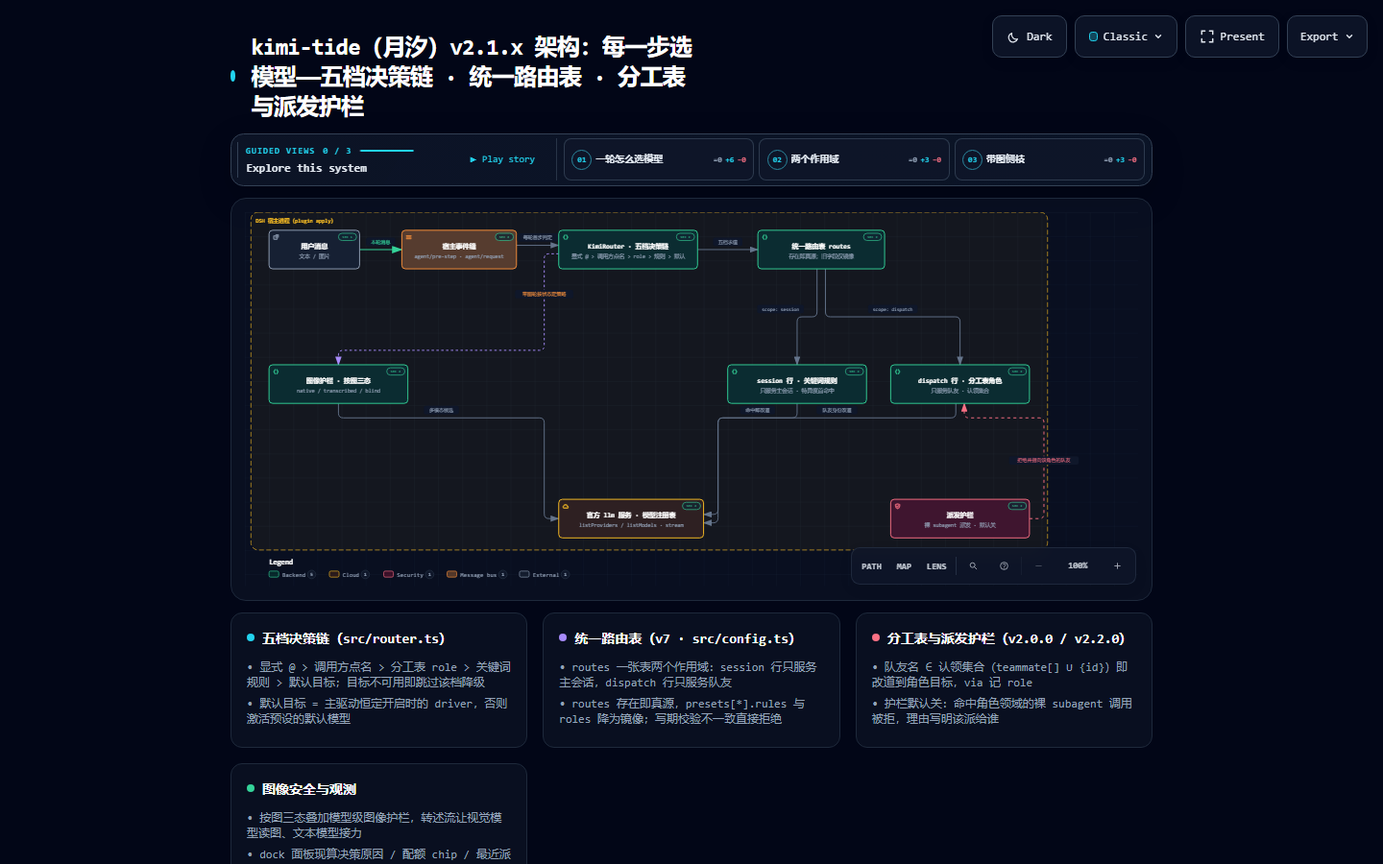
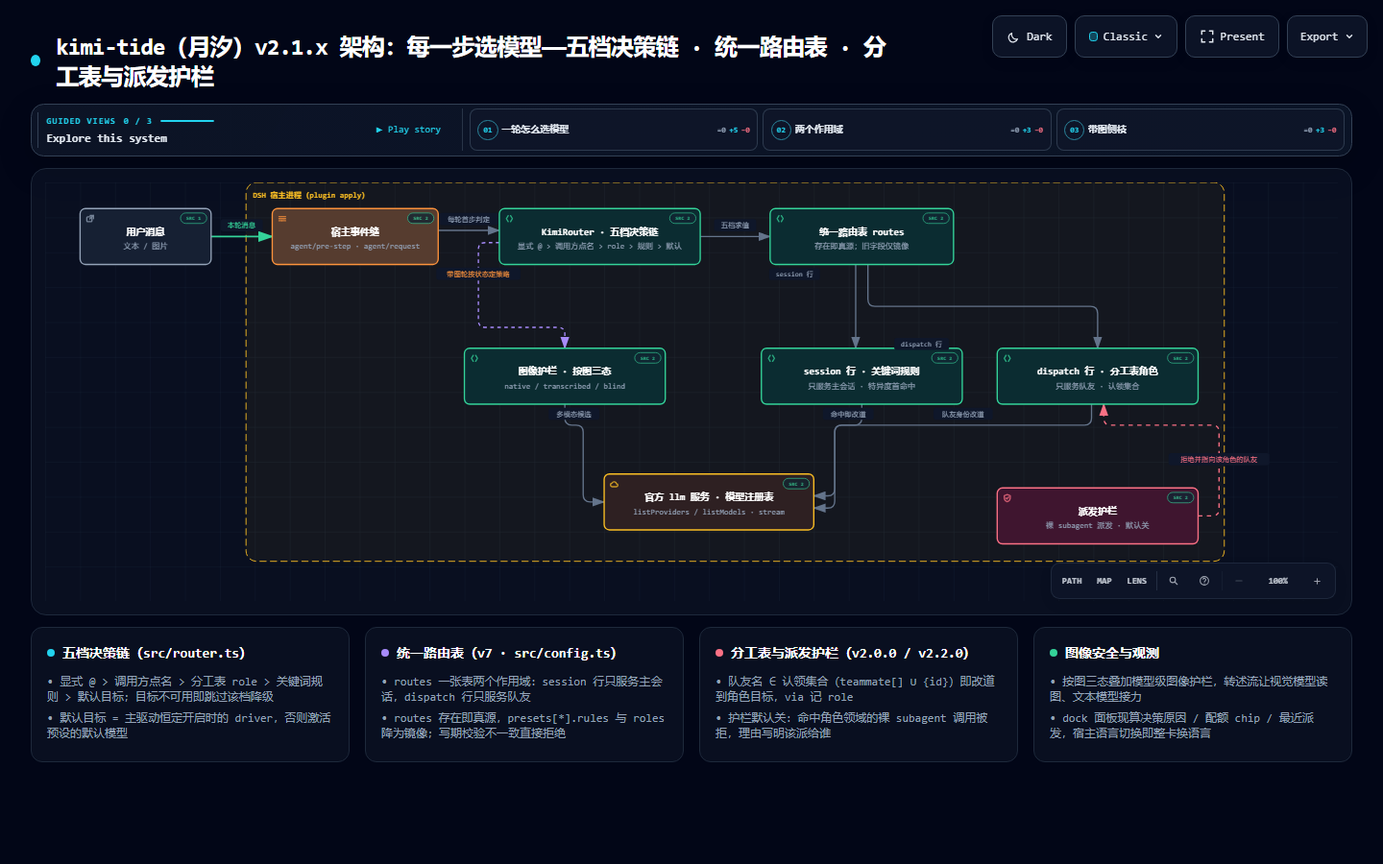
docs(assets): 架构图重制收口——v2.1.x 形态 ＋ 布局紧凑化 ＋ 双语图注同步
用户反馈「布局排版有问题」后的收口轮结果（信息量零变化：9 组件 / 1 边界 / 10 连接 / 4 卡片 / 3 章故事 / 标题文字全保留）。

内容换代（前一轮）：1.0.0 的「协作编排——转述流 · 按图三态 · 智能投影」→
「每一步选模型——五档决策链 · 统一路由表 · 分工表与派发护栏」；新节点含宿主事件缝
（agent/pre-step · agent/request）、KimiRouter·五档决策链、统一路由表 routes（存在即真源、
旧字段仅镜像）、session 行·关键词规则、dispatch 行·分工表角色、图像护栏·按图三态、
派发护栏（裸 subagent 派发·默认关）、官方 llm 服务·模型注册表。

布局收口（本轮，只改 2 个 pos）：
- image  [40,253]  → [480,190]：从跨图长侧枝改为 router 正下方的短侧枝
- models [520,476] → [640,334]：汇聚点上移左收，贴近三条入边
- 实测：总连线长度 2807 → 1957px（−30%）· 最长单边 559 → 415px（−26%）·
  maxStretch 1.203 → 1.245（限值 1.35）· 顺手修掉一个阈值外的隐藏缺陷
  （router→image 的 stretch 3.038× → 1.203×，此前不在 suggestedLimits 里所以 validate 不报）
- routesOverSuggestedBends 仍 5 / maxBends 仍 3：以 70+ 候选位置批量实测证明这是渲染器
  端口几何的下界（同侧 ≥2 条自动端口 ±7px spread ⇒ bottom→top 直落必然带固定折弯），
  按技能「两轮无改善即停」收手，未靠堆 via/channel 硬压指标

验收（Lead 亲跑复验，不采信子代理自述）：
- validate --quality showcase --repo-root . ⇒ ok:true / status pass / errors 0 / warnings 0（9/9 checks）
- visual-check 四档（1440x900 / 1600x1000 / 1920x1080 / 2048x1320）ok=true、overflowX/Y=false
- README 静态图 architecture-overview.png = 本轮 2048x1320 light 截图裁掉底部 329px 空白后
  （2048x1019，留 28px 余量）：白边在 GitHub 上按宽度缩放会占近四成高度，故裁；这是有意的
  派生差异，visual-check 原始截图仍完整留在仓内
- 双语图注（README.md / README.en.md 第 123 行 alt）同步为新标题；五闸全绿

过程登记：本轮与前一轮曾并发写同一 JSON（Lead 误判前一子代理已收工即派下一轮），
后一子代理发现 edit 被拒后保留兄弟改动并合并验收，零丢失。

diff --git a/docs/assets/readme/kimi-tide-architecture.html b/docs/assets/readme/kimi-tide-architecture.html
@@ -4840,7 +4840,7 @@
       </div>
     </div>
 
-    <script id="archify-guided-views-data" type="application/json">[{"id":"live-turn","label":"一轮怎么选模型","focus":["user","event","router","tiers","session","models"],"note":"消息进来 → 事件缝每轮首步判定一次 → 五档决策链 → 统一路由表 → 官方 llm 服务。"},{"id":"two-scopes","label":"两个作用域","focus":["session","dispatch","guard"],"note":"同一张 routes 表：session 行只服务主会话，dispatch 行只服务队友；护栏拦主会话的裸子代理派发。"},{"id":"image-branch","label":"带图侧枝","focus":["image","router","models"],"note":"按图三态 native / transcribed / blind，保证带图轮一定落在能看图的模型上。"}]</script>
+    <script id="archify-guided-views-data" type="application/json">[{"id":"live-turn","label":"一轮怎么选模型","focus":["user","event","router","session","models"],"note":"消息进来 → 事件缝每轮首步判定一次 → 五档决策链 → 命中 session 行 → 官方 llm 服务。"},{"id":"two-scopes","label":"两个作用域","focus":["session","dispatch","guard"],"note":"同一张 routes 表：session 行只服务主会话，dispatch 行只服务队友；护栏拦主会话的裸子代理派发。"},{"id":"image-branch","label":"带图侧枝","focus":["image","router","models"],"note":"按图三态 native / transcribed / blind，保证带图轮一定落在能看图的模型上。"}]</script>
     <script id="archify-source-evidence-data" type="application/json">{"schemaVersion":1,"verified":true,"repository":{"url":"https://github.com/tafcear/kimi-tide","revision":"efeff8721b5aacee522c14be27596ce68977f4e8","shortRevision":"efeff87"},"referenceCount":17,"nodes":{"user":[{"path":"packages/dsh-kimi-tide/src/rules.ts","line":105,"label":"latestUserMessage","href":"https://github.com/tafcear/kimi-tide/blob/efeff8721b5aacee522c14be27596ce68977f4e8/packages/dsh-kimi-tide/src/rules.ts#L105"}],"event":[{"path":"packages/dsh-kimi-tide/src/router.ts","line":839,"label":"installRouter","href":"https://github.com/tafcear/kimi-tide/blob/efeff8721b5aacee522c14be27596ce68977f4e8/packages/dsh-kimi-tide/src/router.ts#L839"},{"path":"packages/dsh-kimi-tide/src/index.ts","line":440,"label":"apply","href":"https://github.com/tafcear/kimi-tide/blob/efeff8721b5aacee522c14be27596ce68977f4e8/packages/dsh-kimi-tide/src/index.ts#L440"}],"router":[{"path":"packages/dsh-kimi-tide/src/router.ts","line":346,"label":"decide 五档","href":"https://github.com/tafcear/kimi-tide/blob/efeff8721b5aacee522c14be27596ce68977f4e8/packages/dsh-kimi-tide/src/router.ts#L346"},{"path":"packages/dsh-kimi-tide/src/router.ts","line":122,"label":"applyRoleDecision","href":"https://github.com/tafcear/kimi-tide/blob/efeff8721b5aacee522c14be27596ce68977f4e8/packages/dsh-kimi-tide/src/router.ts#L122"}],"tiers":[{"path":"packages/dsh-kimi-tide/src/config.ts","line":179,"label":"RouterConfigV7","href":"https://github.com/tafcear/kimi-tide/blob/efeff8721b5aacee522c14be27596ce68977f4e8/packages/dsh-kimi-tide/src/config.ts#L179"},{"path":"packages/dsh-kimi-tide/src/config.ts","line":227,"label":"rowsFromConfig","href":"https://github.com/tafcear/kimi-tide/blob/efeff8721b5aacee522c14be27596ce68977f4e8/packages/dsh-kimi-tide/src/config.ts#L227"}],"image":[{"path":"packages/dsh-kimi-tide/src/image-state.ts","line":18,"label":"ImageStateStore","href":"https://github.com/tafcear/kimi-tide/blob/efeff8721b5aacee522c14be27596ce68977f4e8/packages/dsh-kimi-tide/src/image-state.ts#L18"},{"path":"packages/dsh-kimi-tide/src/router.ts","line":178,"label":"resolveImageFallback","href":"https://github.com/tafcear/kimi-tide/blob/efeff8721b5aacee522c14be27596ce68977f4e8/packages/dsh-kimi-tide/src/router.ts#L178"}],"session":[{"path":"packages/dsh-kimi-tide/src/rules.ts","line":185,"label":"matchingScored","href":"https://github.com/tafcear/kimi-tide/blob/efeff8721b5aacee522c14be27596ce68977f4e8/packages/dsh-kimi-tide/src/rules.ts#L185"},{"path":"packages/dsh-kimi-tide/src/config.ts","line":157,"label":"RouteRowV7","href":"https://github.com/tafcear/kimi-tide/blob/efeff8721b5aacee522c14be27596ce68977f4e8/packages/dsh-kimi-tide/src/config.ts#L157"}],"dispatch":[{"path":"packages/dsh-kimi-tide/src/roles.ts","line":25,"label":"roleClaimSet","href":"https://github.com/tafcear/kimi-tide/blob/efeff8721b5aacee522c14be27596ce68977f4e8/packages/dsh-kimi-tide/src/roles.ts#L25"},{"path":"packages/dsh-kimi-tide/src/roles.ts","line":32,"label":"claimConflict","href":"https://github.com/tafcear/kimi-tide/blob/efeff8721b5aacee522c14be27596ce68977f4e8/packages/dsh-kimi-tide/src/roles.ts#L32"}],"guard":[{"path":"packages/dsh-kimi-tide/src/guard.ts","line":124,"label":"dispatchGuardRejection","href":"https://github.com/tafcear/kimi-tide/blob/efeff8721b5aacee522c14be27596ce68977f4e8/packages/dsh-kimi-tide/src/guard.ts#L124"},{"path":"packages/dsh-kimi-tide/src/index.ts","line":766,"label":"ctx.tools.guard","href":"https://github.com/tafcear/kimi-tide/blob/efeff8721b5aacee522c14be27596ce68977f4e8/packages/dsh-kimi-tide/src/index.ts#L766"}],"models":[{"path":"packages/dsh-kimi-tide/src/index.ts","line":1111,"label":"refreshModelOptions","href":"https://github.com/tafcear/kimi-tide/blob/efeff8721b5aacee522c14be27596ce68977f4e8/packages/dsh-kimi-tide/src/index.ts#L1111"},{"path":"packages/dsh-kimi-tide/src/router.ts","line":483,"label":"applyTo 替换 callConfig","href":"https://github.com/tafcear/kimi-tide/blob/efeff8721b5aacee522c14be27596ce68977f4e8/packages/dsh-kimi-tide/src/router.ts#L483"}]}}</script>
     <div class="guided-views no-print" id="guided-views" hidden aria-label="Guided diagram views">
       <button id="guided-view-prev" type="button" aria-label="Previous guided view" title="Previous guided view ([)">&#8592;</button>
@@ -4883,7 +4883,7 @@
 
     <!-- Main Diagram -->
     <div class="diagram-container" data-detail-level="read">
-      <svg viewBox="0 0 1480 620" role="img" aria-labelledby="archify-diagram-title archify-diagram-description" data-preset="classic" data-quality-profile="showcase">
+      <svg viewBox="0 0 1480 480" role="img" aria-labelledby="archify-diagram-title archify-diagram-description" data-preset="classic" data-quality-profile="showcase">
         <title id="archify-diagram-title">kimi-tide（月汐）v2.1.x 架构：每一步选模型——五档决策链 · 统一路由表 · 分工表与派发护栏</title>
         <desc id="archify-diagram-description">A architecture diagram generated by Archify.</desc>
         <!-- Definitions -->
@@ -4909,20 +4909,20 @@
         <rect width="100%" height="100%" fill="url(#grid)" />
 
         <!-- Boundaries (behind everything) -->
-        <rect data-graph-role="structural-frame" data-composition-frame-kind="region" data-composition-frame-id="0" x="10" y="0" width="1320" height="560" rx="12" class="c-region" stroke-width="1"/>
-        <text x="18" y="18" class="t-cloud" font-size="9" font-weight="600">DSH 宿主进程（plugin apply）</text>
+        <rect data-graph-role="structural-frame" data-composition-frame-kind="region" data-composition-frame-id="0" x="230" y="0" width="1120" height="434" rx="12" class="c-region" stroke-width="1"/>
+        <text x="238" y="18" class="t-cloud" font-size="9" font-weight="600">DSH 宿主进程（plugin apply）</text>
 
         <!-- Connection paths (before components for correct z-order) -->
         <path data-edge-from="user" data-edge-to="event" data-edge-label="本轮消息" data-edge-key="0" data-edge-id="user-to-event" data-composition-points="190,62;260,62" d="M 190 62 L 260 62" class="a-emphasis" stroke-width="1.8" marker-end="url(#arrowhead-emphasis)"/>
         <path data-edge-from="event" data-edge-to="router" data-edge-label="每轮首步判定" data-edge-key="1" data-edge-id="event-to-router" data-composition-points="450,55;520,55" d="M 450 55 L 520 55" class="a-default" stroke-width="1.5" marker-end="url(#arrowhead)"/>
-        <path data-edge-from="router" data-edge-to="tiers" data-edge-label="五档求值" data-edge-key="2" data-edge-id="router-to-tiers" data-composition-points="750,62;850,62" d="M 750 62 L 850 62" class="a-default" stroke-width="1.5" marker-end="url(#arrowhead)"/>
-        <path data-edge-from="tiers" data-edge-to="session" data-edge-label="scope: session" data-edge-key="3" data-edge-id="tiers-to-session" data-composition-points="948,94;948,173.5;915,173.5;915,253" d="M 948 94 L 948 165.5 Q 948 173.5 940 173.5 L 923 173.5 Q 915 173.5 915 181.5 L 915 253" class="a-default" stroke-width="1.5" marker-end="url(#arrowhead)"/>
-        <path data-edge-from="tiers" data-edge-to="dispatch" data-edge-label="scope: dispatch" data-edge-key="4" data-edge-id="tiers-to-dispatch" data-composition-points="962,94;962,173.5;1185,173.5;1185,253" d="M 962 94 L 962 165.5 Q 962 173.5 970 173.5 L 1177 173.5 Q 1185 173.5 1185 181.5 L 1185 253" class="a-default" stroke-width="1.5" marker-end="url(#arrowhead)"/>
-        <path data-edge-from="session" data-edge-to="models" data-edge-label="命中即改道" data-edge-key="5" data-edge-id="session-to-models" data-composition-points="915,317;915,341;784,341;784,515;760,515" d="M 915 317 L 915 333 Q 915 341 907 341 L 792 341 Q 784 341 784 349 L 784 507 Q 784 515 776 515 L 760 515" class="a-default" stroke-width="1.5" marker-end="url(#arrowhead)"/>
-        <path data-edge-from="dispatch" data-edge-to="models" data-edge-label="队友身份改道" data-edge-key="6" data-edge-id="dispatch-to-models" data-composition-points="1178,317;1178,341;784,341;784,501;760,501" d="M 1178 317 L 1178 333 Q 1178 341 1170 341 L 792 341 Q 784 341 784 349 L 784 493 Q 784 501 776 501 L 760 501" class="a-default" stroke-width="1.5" marker-end="url(#arrowhead)"/>
-        <path data-edge-from="guard" data-edge-to="dispatch" data-edge-label="拒绝并指向该角色的队友" data-edge-key="7" data-edge-id="guard-to-dispatch" data-composition-points="1300,508;1324,508;1324,341;1192,341;1192,317" d="M 1300 508 L 1316 508 Q 1324 508 1324 500 L 1324 349 Q 1324 341 1316 341 L 1200 341 Q 1192 341 1192 333 L 1192 317" class="a-security" stroke-width="1.5" marker-end="url(#arrowhead-security)"/>
-        <path data-edge-from="image" data-edge-to="models" data-edge-label="多模态候选" data-edge-key="8" data-edge-id="image-to-models" data-composition-points="155,317;155,341;496,341;496,508;520,508" d="M 155 317 L 155 333 Q 155 341 163 341 L 488 341 Q 496 341 496 349 L 496 500 Q 496 508 504 508 L 520 508" class="a-default" stroke-width="1.5" marker-end="url(#arrowhead)"/>
-        <path data-edge-from="router" data-edge-to="image" data-edge-label="带图轮按状态定策略" data-edge-key="9" data-edge-id="router-to-image" data-composition-points="520,69;496,69;496,229;155,229;155,253" d="M 520 69 L 504 69 Q 496 69 496 77 L 496 221 Q 496 229 488 229 L 163 229 Q 155 229 155 237 L 155 253" class="a-dashed" stroke-width="1.5" marker-end="url(#arrowhead-dashed)"/>
+        <path data-edge-from="router" data-edge-to="tiers" data-edge-label="五档求值" data-edge-key="2" data-edge-id="router-to-tiers" data-composition-points="750,62;830,62" d="M 750 62 L 830 62" class="a-default" stroke-width="1.5" marker-end="url(#arrowhead)"/>
+        <path data-edge-from="tiers" data-edge-to="session" data-edge-label="session 行" data-edge-key="3" data-edge-id="tiers-to-session" data-composition-points="928,94;928,190" d="M 928 94 L 928 190" class="a-default" stroke-width="1.5" marker-end="url(#arrowhead)"/>
+        <path data-edge-from="tiers" data-edge-to="dispatch" data-edge-label="dispatch 行" data-edge-key="4" data-edge-id="tiers-to-dispatch" data-composition-points="942,94;942,142;1205,142;1205,190" d="M 942 94 L 942 134 Q 942 142 950 142 L 1197 142 Q 1205 142 1205 150 L 1205 190" class="a-default" stroke-width="1.5" marker-end="url(#arrowhead)"/>
+        <path data-edge-from="session" data-edge-to="models" data-edge-label="命中即改道" data-edge-key="5" data-edge-id="session-to-models" data-composition-points="935,254;935,278;904,278;904,373;880,373" d="M 935 254 L 935 270 Q 935 278 927 278 L 912 278 Q 904 278 904 286 L 904 365 Q 904 373 896 373 L 880 373" class="a-default" stroke-width="1.5" marker-end="url(#arrowhead)"/>
+        <path data-edge-from="dispatch" data-edge-to="models" data-edge-label="队友身份改道" data-edge-key="6" data-edge-id="dispatch-to-models" data-composition-points="1198,254;1198,278;904,278;904,359;880,359" d="M 1198 254 L 1198 270 Q 1198 278 1190 278 L 912 278 Q 904 278 904 286 L 904 351 Q 904 359 896 359 L 880 359" class="a-default" stroke-width="1.5" marker-end="url(#arrowhead)"/>
+        <path data-edge-from="guard" data-edge-to="dispatch" data-edge-label="拒绝并指向该角色的队友" data-edge-key="7" data-edge-id="guard-to-dispatch" data-composition-points="1320,382;1344,382;1344,278;1212,278;1212,254" d="M 1320 382 L 1336 382 Q 1344 382 1344 374 L 1344 286 Q 1344 278 1336 278 L 1220 278 Q 1212 278 1212 270 L 1212 254" class="a-security" stroke-width="1.5" marker-end="url(#arrowhead-security)"/>
+        <path data-edge-from="image" data-edge-to="models" data-edge-label="多模态候选" data-edge-key="8" data-edge-id="image-to-models" data-composition-points="595,254;595,278;616,278;616,366;640,366" d="M 595 254 L 595 270 Q 595 278 603 278 L 608 278 Q 616 278 616 286 L 616 358 Q 616 366 624 366 L 640 366" class="a-default" stroke-width="1.5" marker-end="url(#arrowhead)"/>
+        <path data-edge-from="router" data-edge-to="image" data-edge-label="带图轮按状态定策略" data-edge-key="9" data-edge-id="router-to-image" data-composition-points="520,69;496,69;496,166;595,166;595,190" d="M 520 69 L 504 69 Q 496 69 496 77 L 496 158 Q 496 166 504 166 L 587 166 Q 595 166 595 174 L 595 190" class="a-dashed" stroke-width="1.5" marker-end="url(#arrowhead-dashed)"/>
 
         <!-- Components -->
         <g id="node-user" data-node-id="user" data-node-label="用户消息" tabindex="0" role="button" aria-label="Focus 用户消息, 文本 / 图片, Architecture component" aria-pressed="false" data-node-kind="external" data-node-sublabel="文本 / 图片" data-node-context="Architecture component">
@@ -4965,72 +4965,72 @@
 
         <g id="node-tiers" data-node-id="tiers" data-node-label="统一路由表 routes" tabindex="0" role="button" aria-label="Focus 统一路由表 routes, 存在即真源；旧字段仅镜像, DSH 宿主进程（plugin apply）" aria-pressed="false" data-node-kind="backend" data-node-sublabel="存在即真源；旧字段仅镜像" data-node-context="DSH 宿主进程（plugin apply）">
           <title>统一路由表 routes · 存在即真源；旧字段仅镜像 · DSH 宿主进程（plugin apply）</title>
-          <rect x="850" y="30" width="210" height="64" rx="6" class="c-mask"/>
-          <rect x="850" y="30" width="210" height="64" rx="6" class="c-backend" stroke-width="1.5"/>
-          <g aria-hidden="true" data-semantic-sigil="backend" class="semantic-sigil s-backend" transform="translate(856 36) scale(0.6875)">
+          <rect x="830" y="30" width="210" height="64" rx="6" class="c-mask"/>
+          <rect x="830" y="30" width="210" height="64" rx="6" class="c-backend" stroke-width="1.5"/>
+          <g aria-hidden="true" data-semantic-sigil="backend" class="semantic-sigil s-backend" transform="translate(836 36) scale(0.6875)">
             <path d="M6 3 3 8l3 5M10 3l3 5-3 5"/>
           </g>
-          <text data-detail-anchor x="955" y="60" class="t-primary" font-size="11" font-weight="600" text-anchor="middle">统一路由表 routes</text>
-        <text data-detail="context" x="955" y="76" class="t-muted" font-size="9" text-anchor="middle">存在即真源；旧字段仅镜像</text>
+          <text data-detail-anchor x="935" y="60" class="t-primary" font-size="11" font-weight="600" text-anchor="middle">统一路由表 routes</text>
+        <text data-detail="context" x="935" y="76" class="t-muted" font-size="9" text-anchor="middle">存在即真源；旧字段仅镜像</text>
         </g>
 
         <g id="node-image" data-node-id="image" data-node-label="图像护栏 · 按图三态" tabindex="0" role="button" aria-label="Focus 图像护栏 · 按图三态, native / transcribed / blind, DSH 宿主进程（plugin apply）" aria-pressed="false" data-node-kind="backend" data-node-sublabel="native / transcribed / blind" data-node-tag="转述流接力" data-node-context="DSH 宿主进程（plugin apply）">
           <title>图像护栏 · 按图三态 · native / transcribed / blind · DSH 宿主进程（plugin apply） · 转述流接力</title>
-          <rect x="40" y="253" width="230" height="64" rx="6" class="c-mask"/>
-          <rect x="40" y="253" width="230" height="64" rx="6" class="c-backend" stroke-width="1.5"/>
-          <g aria-hidden="true" data-semantic-sigil="backend" class="semantic-sigil s-backend" transform="translate(46 259) scale(0.6875)">
+          <rect x="480" y="190" width="230" height="64" rx="6" class="c-mask"/>
+          <rect x="480" y="190" width="230" height="64" rx="6" class="c-backend" stroke-width="1.5"/>
+          <g aria-hidden="true" data-semantic-sigil="backend" class="semantic-sigil s-backend" transform="translate(486 196) scale(0.6875)">
             <path d="M6 3 3 8l3 5M10 3l3 5-3 5"/>
           </g>
-          <text data-detail-anchor x="155" y="283" class="t-primary" font-size="11" font-weight="600" text-anchor="middle">图像护栏 · 按图三态</text>
-        <text data-detail="context" x="155" y="299" class="t-muted" font-size="9" text-anchor="middle">native / transcribed / blind</text>
-        <text data-detail="fine" x="155" y="309" class="t-backend" font-size="7" text-anchor="middle">转述流接力</text>
+          <text data-detail-anchor x="595" y="220" class="t-primary" font-size="11" font-weight="600" text-anchor="middle">图像护栏 · 按图三态</text>
+        <text data-detail="context" x="595" y="236" class="t-muted" font-size="9" text-anchor="middle">native / transcribed / blind</text>
+        <text data-detail="fine" x="595" y="246" class="t-backend" font-size="7" text-anchor="middle">转述流接力</text>
         </g>
 
         <g id="node-session" data-node-id="session" data-node-label="session 行 · 关键词规则" tabindex="0" role="button" aria-label="Focus session 行 · 关键词规则, 只服务主会话 · 特异度首命中, DSH 宿主进程（plugin apply）" aria-pressed="false" data-node-kind="backend" data-node-sublabel="只服务主会话 · 特异度首命中" data-node-context="DSH 宿主进程（plugin apply）">
           <title>session 行 · 关键词规则 · 只服务主会话 · 特异度首命中 · DSH 宿主进程（plugin apply）</title>
-          <rect x="800" y="253" width="230" height="64" rx="6" class="c-mask"/>
-          <rect x="800" y="253" width="230" height="64" rx="6" class="c-backend" stroke-width="1.5"/>
-          <g aria-hidden="true" data-semantic-sigil="backend" class="semantic-sigil s-backend" transform="translate(806 259) scale(0.6875)">
+          <rect x="820" y="190" width="230" height="64" rx="6" class="c-mask"/>
+          <rect x="820" y="190" width="230" height="64" rx="6" class="c-backend" stroke-width="1.5"/>
+          <g aria-hidden="true" data-semantic-sigil="backend" class="semantic-sigil s-backend" transform="translate(826 196) scale(0.6875)">
             <path d="M6 3 3 8l3 5M10 3l3 5-3 5"/>
           </g>
-          <text data-detail-anchor x="915" y="283" class="t-primary" font-size="11" font-weight="600" text-anchor="middle">session 行 · 关键词规则</text>
-        <text data-detail="context" x="915" y="299" class="t-muted" font-size="9" text-anchor="middle">只服务主会话 · 特异度首命中</text>
+          <text data-detail-anchor x="935" y="220" class="t-primary" font-size="11" font-weight="600" text-anchor="middle">session 行 · 关键词规则</text>
+        <text data-detail="context" x="935" y="236" class="t-muted" font-size="9" text-anchor="middle">只服务主会话 · 特异度首命中</text>
         </g>
 
         <g id="node-dispatch" data-node-id="dispatch" data-node-label="dispatch 行 · 分工表角色" tabindex="0" role="button" aria-label="Focus dispatch 行 · 分工表角色, 只服务队友 · 认领集合, DSH 宿主进程（plugin apply）" aria-pressed="false" data-node-kind="backend" data-node-sublabel="只服务队友 · 认领集合" data-node-tag="角色即路由" data-node-context="DSH 宿主进程（plugin apply）">
           <title>dispatch 行 · 分工表角色 · 只服务队友 · 认领集合 · DSH 宿主进程（plugin apply） · 角色即路由</title>
-          <rect x="1070" y="253" width="230" height="64" rx="6" class="c-mask"/>
-          <rect x="1070" y="253" width="230" height="64" rx="6" class="c-backend" stroke-width="1.5"/>
-          <g aria-hidden="true" data-semantic-sigil="backend" class="semantic-sigil s-backend" transform="translate(1076 259) scale(0.6875)">
+          <rect x="1090" y="190" width="230" height="64" rx="6" class="c-mask"/>
+          <rect x="1090" y="190" width="230" height="64" rx="6" class="c-backend" stroke-width="1.5"/>
+          <g aria-hidden="true" data-semantic-sigil="backend" class="semantic-sigil s-backend" transform="translate(1096 196) scale(0.6875)">
             <path d="M6 3 3 8l3 5M10 3l3 5-3 5"/>
           </g>
-          <text data-detail-anchor x="1185" y="283" class="t-primary" font-size="11" font-weight="600" text-anchor="middle">dispatch 行 · 分工表角色</text>
-        <text data-detail="context" x="1185" y="299" class="t-muted" font-size="9" text-anchor="middle">只服务队友 · 认领集合</text>
-        <text data-detail="fine" x="1185" y="309" class="t-backend" font-size="7" text-anchor="middle">角色即路由</text>
+          <text data-detail-anchor x="1205" y="220" class="t-primary" font-size="11" font-weight="600" text-anchor="middle">dispatch 行 · 分工表角色</text>
+        <text data-detail="context" x="1205" y="236" class="t-muted" font-size="9" text-anchor="middle">只服务队友 · 认领集合</text>
+        <text data-detail="fine" x="1205" y="246" class="t-backend" font-size="7" text-anchor="middle">角色即路由</text>
         </g>
 
         <g id="node-guard" data-node-id="guard" data-node-label="派发护栏" tabindex="0" role="button" aria-label="Focus 派发护栏, 裸 subagent 派发 · 默认关, DSH 宿主进程（plugin apply）" aria-pressed="false" data-node-kind="security" data-node-sublabel="裸 subagent 派发 · 默认关" data-node-context="DSH 宿主进程（plugin apply）">
           <title>派发护栏 · 裸 subagent 派发 · 默认关 · DSH 宿主进程（plugin apply）</title>
-          <rect x="1070" y="476" width="230" height="64" rx="6" class="c-mask"/>
-          <rect x="1070" y="476" width="230" height="64" rx="6" class="c-security" stroke-width="1.5"/>
-          <g aria-hidden="true" data-semantic-sigil="security" class="semantic-sigil s-security" transform="translate(1076 482) scale(0.6875)">
+          <rect x="1090" y="350" width="230" height="64" rx="6" class="c-mask"/>
+          <rect x="1090" y="350" width="230" height="64" rx="6" class="c-security" stroke-width="1.5"/>
+          <g aria-hidden="true" data-semantic-sigil="security" class="semantic-sigil s-security" transform="translate(1096 356) scale(0.6875)">
             <path d="M8 2.2 13 4v3.5c0 3.1-1.8 5.4-5 6.5-3.2-1.1-5-3.4-5-6.5V4Z"/>
             <path d="m5.8 8 1.5 1.5 3-3"/>
           </g>
-          <text data-detail-anchor x="1185" y="506" class="t-primary" font-size="11" font-weight="600" text-anchor="middle">派发护栏</text>
-        <text data-detail="context" x="1185" y="522" class="t-muted" font-size="9" text-anchor="middle">裸 subagent 派发 · 默认关</text>
+          <text data-detail-anchor x="1205" y="380" class="t-primary" font-size="11" font-weight="600" text-anchor="middle">派发护栏</text>
+        <text data-detail="context" x="1205" y="396" class="t-muted" font-size="9" text-anchor="middle">裸 subagent 派发 · 默认关</text>
         </g>
 
         <g id="node-models" data-node-id="models" data-node-label="官方 llm 服务 · 模型注册表" tabindex="0" role="button" aria-label="Focus 官方 llm 服务 · 模型注册表, listProviders / listModels · stream, DSH 宿主进程（plugin apply）" aria-pressed="false" data-node-kind="cloud" data-node-sublabel="listProviders / listModels · stream" data-node-tag="云模型 API" data-node-context="DSH 宿主进程（plugin apply）">
           <title>官方 llm 服务 · 模型注册表 · listProviders / listModels · stream · DSH 宿主进程（plugin apply） · 云模型 API</title>
-          <rect x="520" y="476" width="240" height="64" rx="6" class="c-mask"/>
-          <rect x="520" y="476" width="240" height="64" rx="6" class="c-cloud" stroke-width="1.5"/>
-          <g aria-hidden="true" data-semantic-sigil="cloud" class="semantic-sigil s-cloud" transform="translate(526 482) scale(0.6875)">
+          <rect x="640" y="334" width="240" height="64" rx="6" class="c-mask"/>
+          <rect x="640" y="334" width="240" height="64" rx="6" class="c-cloud" stroke-width="1.5"/>
+          <g aria-hidden="true" data-semantic-sigil="cloud" class="semantic-sigil s-cloud" transform="translate(646 340) scale(0.6875)">
             <path d="M4.3 12.5h7.3a2.4 2.4 0 0 0 .2-4.8 4 4 0 0 0-7.5-1.3A3.1 3.1 0 0 0 4.3 12.5Z"/>
           </g>
-          <text data-detail-anchor x="640" y="506" class="t-primary" font-size="11" font-weight="600" text-anchor="middle">官方 llm 服务 · 模型注册表</text>
-        <text data-detail="context" x="640" y="522" class="t-muted" font-size="9" text-anchor="middle">listProviders / listModels · stream</text>
-        <text data-detail="fine" x="640" y="532" class="t-cloud" font-size="7" text-anchor="middle">云模型 API</text>
+          <text data-detail-anchor x="760" y="364" class="t-primary" font-size="11" font-weight="600" text-anchor="middle">官方 llm 服务 · 模型注册表</text>
+        <text data-detail="context" x="760" y="380" class="t-muted" font-size="9" text-anchor="middle">listProviders / listModels · stream</text>
+        <text data-detail="fine" x="760" y="390" class="t-cloud" font-size="7" text-anchor="middle">云模型 API</text>
         </g>
 
         <!-- Connection labels -->
@@ -5043,62 +5043,40 @@
           <text x="485" y="45" class="t-muted" font-size="8" text-anchor="middle">每轮首步判定</text>
         </g>
         <g data-detail="context" data-edge-from="router" data-edge-to="tiers" data-edge-label="五档求值" data-edge-key="2" data-edge-id="router-to-tiers">
-          <rect x="775.8" y="42" width="48.4" height="14" rx="3" class="c-mask"/>
-          <text x="800" y="52" class="t-muted" font-size="8" text-anchor="middle">五档求值</text>
+          <rect x="765.8" y="42" width="48.4" height="14" rx="3" class="c-mask"/>
+          <text x="790" y="52" class="t-muted" font-size="8" text-anchor="middle">五档求值</text>
         </g>
-        <g data-detail="context" data-edge-from="tiers" data-edge-to="session" data-edge-label="scope: session" data-edge-key="3" data-edge-id="tiers-to-session">
-          <rect x="848.9" y="153.5" width="77.2" height="14" rx="3" class="c-mask"/>
-          <text x="887.5" y="163.5" class="t-muted" font-size="8" text-anchor="middle">scope: session</text>
+        <g data-detail="context" data-edge-from="tiers" data-edge-to="session" data-edge-label="session 行" data-edge-key="3" data-edge-id="tiers-to-session">
+          <rect x="829" y="98" width="58" height="14" rx="3" class="c-mask"/>
+          <text x="858" y="108" class="t-muted" font-size="8" text-anchor="middle">session 行</text>
         </g>
-        <g data-detail="context" data-edge-from="tiers" data-edge-to="dispatch" data-edge-label="scope: dispatch" data-edge-key="4" data-edge-id="tiers-to-dispatch">
-          <rect x="1032.5" y="153.5" width="82" height="14" rx="3" class="c-mask"/>
-          <text x="1073.5" y="163.5" class="t-muted" font-size="8" text-anchor="middle">scope: dispatch</text>
+        <g data-detail="context" data-edge-from="tiers" data-edge-to="dispatch" data-edge-label="dispatch 行" data-edge-key="4" data-edge-id="tiers-to-dispatch">
+          <rect x="972.1" y="178" width="62.8" height="14" rx="3" class="c-mask"/>
+          <text x="1003.5" y="188" class="t-muted" font-size="8" text-anchor="middle">dispatch 行</text>
         </g>
         <g data-detail="context" data-edge-from="session" data-edge-to="models" data-edge-label="命中即改道" data-edge-key="5" data-edge-id="session-to-models">
-          <rect x="820.5" y="321" width="58" height="14" rx="3" class="c-mask"/>
-          <text x="849.5" y="331" class="t-muted" font-size="8" text-anchor="middle">命中即改道</text>
+          <rect x="890.5" y="258" width="58" height="14" rx="3" class="c-mask"/>
+          <text x="919.5" y="268" class="t-muted" font-size="8" text-anchor="middle">命中即改道</text>
         </g>
         <g data-detail="context" data-edge-from="dispatch" data-edge-to="models" data-edge-label="队友身份改道" data-edge-key="6" data-edge-id="dispatch-to-models">
-          <rect x="947.2" y="321" width="67.6" height="14" rx="3" class="c-mask"/>
-          <text x="981" y="331" class="t-muted" font-size="8" text-anchor="middle">队友身份改道</text>
+          <rect x="1017.2" y="258" width="67.6" height="14" rx="3" class="c-mask"/>
+          <text x="1051" y="268" class="t-muted" font-size="8" text-anchor="middle">队友身份改道</text>
         </g>
         <g data-detail="context" data-edge-from="guard" data-edge-to="dispatch" data-edge-label="拒绝并指向该角色的队友" data-edge-key="7" data-edge-id="guard-to-dispatch">
-          <rect x="1266.2" y="404.5" width="115.6" height="14" rx="3" class="c-mask"/>
-          <text x="1324" y="414.5" class="t-security" font-size="8" text-anchor="middle">拒绝并指向该角色的队友</text>
+          <rect x="1286.2" y="310" width="115.6" height="14" rx="3" class="c-mask"/>
+          <text x="1344" y="320" class="t-security" font-size="8" text-anchor="middle">拒绝并指向该角色的队友</text>
         </g>
         <g data-detail="context" data-edge-from="image" data-edge-to="models" data-edge-label="多模态候选" data-edge-key="8" data-edge-id="image-to-models">
-          <rect x="296.5" y="321" width="58" height="14" rx="3" class="c-mask"/>
-          <text x="325.5" y="331" class="t-muted" font-size="8" text-anchor="middle">多模态候选</text>
+          <rect x="576.5" y="258" width="58" height="14" rx="3" class="c-mask"/>
+          <text x="605.5" y="268" class="t-muted" font-size="8" text-anchor="middle">多模态候选</text>
         </g>
         <g data-detail="context" data-edge-from="router" data-edge-to="image" data-edge-label="带图轮按状态定策略" data-edge-key="9" data-edge-id="router-to-image">
-          <rect x="447.8" y="129" width="96.39999999999999" height="14" rx="3" class="c-mask"/>
-          <text x="496" y="139" class="t-messagebus" font-size="8" text-anchor="middle">带图轮按状态定策略</text>
+          <rect x="447.8" y="97.5" width="96.39999999999999" height="14" rx="3" class="c-mask"/>
+          <text x="496" y="107.5" class="t-messagebus" font-size="8" text-anchor="middle">带图轮按状态定策略</text>
         </g>
 
         <!-- Legend -->
-        <g data-legend data-legend-bridge>
-          <text x="40" y="584" class="t-primary" font-size="12" font-weight="650">Legend</text>
-          <g data-legend-semantic-kind="backend" data-legend-kind="backend" data-legend-label="Backend" data-legend-x="40" data-legend-baseline="604" data-legend-width="78">
-            <rect x="40" y="595" width="16" height="10" rx="2.5" class="c-backend" stroke-width="1"/>
-            <text x="62" y="604" class="t-muted" font-size="10" font-weight="500">Backend</text>
-          </g>
-          <g data-legend-semantic-kind="cloud" data-legend-kind="cloud" data-legend-label="Cloud" data-legend-x="140" data-legend-baseline="604" data-legend-width="68">
-            <rect x="140" y="595" width="16" height="10" rx="2.5" class="c-cloud" stroke-width="1"/>
-            <text x="162" y="604" class="t-muted" font-size="10" font-weight="500">Cloud</text>
-          </g>
-          <g data-legend-semantic-kind="security" data-legend-kind="security" data-legend-label="Security" data-legend-x="230" data-legend-baseline="604" data-legend-width="83">
-            <rect x="230" y="595" width="16" height="10" rx="2.5" class="c-security" stroke-width="1"/>
-            <text x="252" y="604" class="t-muted" font-size="10" font-weight="500">Security</text>
-          </g>
-          <g data-legend-semantic-kind="messagebus" data-legend-kind="messagebus" data-legend-label="Message bus" data-legend-x="335" data-legend-baseline="604" data-legend-width="98">
-            <rect x="335" y="595" width="16" height="10" rx="2.5" class="c-messagebus" stroke-width="1"/>
-            <text x="357" y="604" class="t-muted" font-size="10" font-weight="500">Message bus</text>
-          </g>
-          <g data-legend-semantic-kind="external" data-legend-kind="external" data-legend-label="External" data-legend-x="455" data-legend-baseline="604" data-legend-width="83">
-            <rect x="455" y="595" width="16" height="10" rx="2.5" class="c-external" stroke-width="1"/>
-            <text x="477" y="604" class="t-muted" font-size="10" font-weight="500">External</text>
-          </g>
-        </g>
+
       </svg>
       <p class="intent-trace-status no-print" id="intent-trace-status" role="status" aria-live="polite" aria-atomic="true"></p>
       <div class="share-chapter-cue no-print" id="share-chapter-cue" hidden role="status" aria-live="polite">

diff --git a/docs/assets/readme/kimi-tide-architecture.visual-check.html b/docs/assets/readme/kimi-tide-architecture.visual-check.html
@@ -9,15 +9,15 @@
 </style>
 </head>
 <body>
-<header><h1>Archify visual-check</h1><p>kimi-tide-architecture.html · automated containment fail · visual review pending</p></header>
+<header><h1>Archify visual-check</h1><p>kimi-tide-architecture.html · automated containment pass · visual review pending</p></header>
 <main class="grid">
       <figure>
         <img src="kimi-tide-architecture.visual-check.1440x900.light.png" alt="light 1440 by 900">
-        <figcaption><strong>LIGHT</strong> · 1440×900 · containment fail</figcaption>
+        <figcaption><strong>LIGHT</strong> · 1440×900 · containment pass</figcaption>
       </figure>
       <figure>
         <img src="kimi-tide-architecture.visual-check.1440x900.dark.png" alt="dark 1440 by 900">
-        <figcaption><strong>DARK</strong> · 1440×900 · containment fail</figcaption>
+        <figcaption><strong>DARK</strong> · 1440×900 · containment pass</figcaption>
       </figure>
       <figure>
         <img src="kimi-tide-architecture.visual-check.2048x1320.light.png" alt="light 2048 by 1320">

diff --git a/README.en.md b/README.en.md
@@ -120,7 +120,7 @@ At the very top of the card sits an **interface-language row**: it lists every l
 
 ## What it looks like
 
-[![kimi-tide 1.0.0 architecture (collaboration flows)](docs/assets/readme/architecture-overview.png)](docs/assets/readme/kimi-tide-architecture.html)
+[![kimi-tide (MoonTide) v2.1.x architecture: picking a model at every step — five-tier decision chain · unified route table · role table & dispatch guard](docs/assets/readme/architecture-overview.png)](docs/assets/readme/kimi-tide-architecture.html)
 
 *Click for full size; download the linked HTML and open it in a browser for the interactive diagram (pan/zoom/search, light & dark themes).*
 

diff --git a/README.md b/README.md
@@ -120,7 +120,7 @@ flowchart LR
 
 ## 它长什么样
 
-[![kimi-tide 1.0.0 架构图（协作编排）](docs/assets/readme/architecture-overview.png)](docs/assets/readme/kimi-tide-architecture.html)
+[![kimi-tide（月汐）v2.1.x 架构：每一步选模型——五档决策链 · 统一路由表 · 分工表与派发护栏](docs/assets/readme/architecture-overview.png)](docs/assets/readme/kimi-tide-architecture.html)
 
 *点图看大图。`docs/assets/readme/kimi-tide-architecture.html` 下载后用浏览器打开，是可平移缩放/搜索的交互式架构图（明暗双主题，节点可溯源到源码）。*
 
